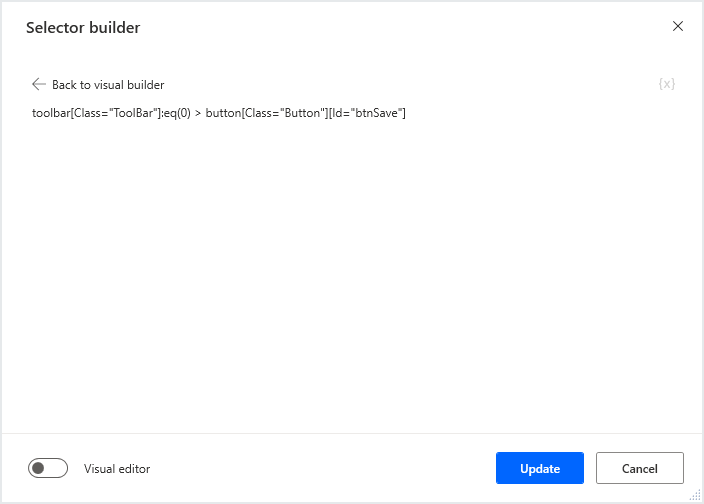
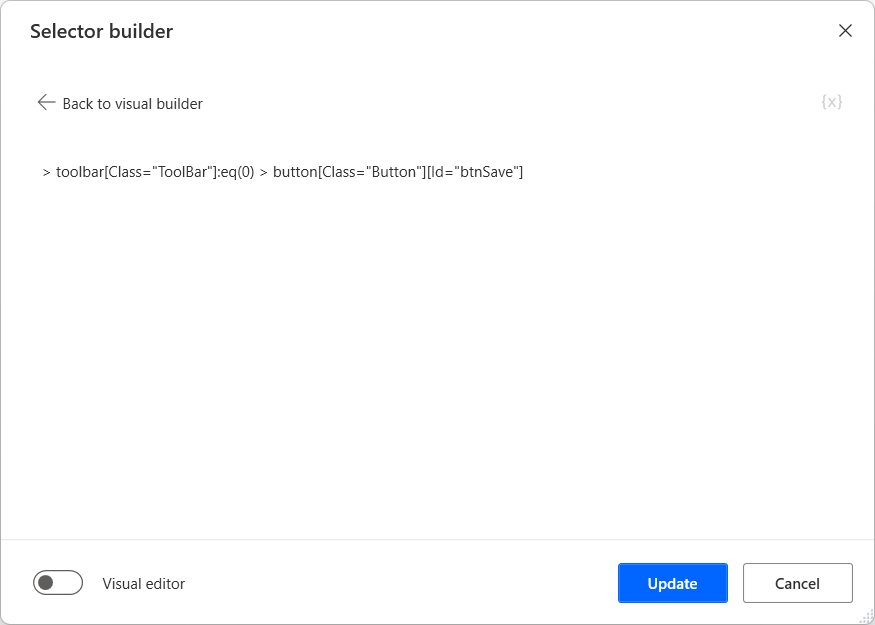
Updated screenshots for UI elements

diff --git a/articles/desktop-flows/ui-elements.md b/articles/desktop-flows/ui-elements.md
@@ -27,13 +27,15 @@ Each one of these action groups accepts a different category of UI elements. UI 
 > [!NOTE]
 > UI automation actions can use only UI elements for desktop applications, while the browser automation action can use only UI elements for webpages. Therefore, incompatible UI elements aren't available for selection. 
 
-![The Press button in window action.](./media/ui-elements/ui-element-input.png)
+![Screenshot of the available UI elements in the Press button in window action.](media/ui-elements/ui-element-input.png)
 
 To add a UI element to your flow, select to add a new UI element, highlight the respective element, and press **Ctrl + Left click**. When the selection is finished, select **Done**. 
 
-![Capturing an UI element.](./media/ui-elements/capturing-ui-elements.png)
+![Screenshot of a highlighted element.](./media/ui-elements/capturing-ui-elements.png)
 
 Any captured UI elements will be added to the UI elements pane. To access the UI elements pane, select the UI elements tab on the right-hand side of the flow designer.
+
+![Screenshot of the UI elements tab.](./media/ui-elements/ui-elements-tab.png)
 
 Elements can be sorted alphabetically through the **Sort** option of the  UI elements tab. To remove all the UI elements that aren't used in any action, select the dots icon next to the **Sort** option and then **Remove unused UI elements**.
 
@@ -41,15 +43,17 @@ To rename or delete a UI element, right-click on the respective item and select 
 
 To find where a specific UI element is being used in the flow, right-click on it and select **Find usages**. The results will display all the actions that use this UI element. Double-click on a result to highlight the action on the workspace.
 
-![The UI elements pane.](./media/ui-elements/access-ui-elements-pane.png)
+![Screenshot of the UI elements pane.](./media/ui-elements/ui-elements-pane.png)
 
 ## Element Types
 
 UI automation and browser automation actions accept two different kinds of UI elements. UI automation actions accept only UI elements captured from desktop applications, while browser automation actions accept only UI elements captured from web pages.
 
-To distinguish a UI element for a desktop application from a UI element for a web page, check its root element. UI elements for desktop applications usually have the desktop as their root element, while the UI elements for web pages have a webpage as their root element. 
+To distinguish a UI element for a desktop application from a UI element for a web page, check its root selector element. UI elements for desktop applications usually have the desktop as their root element, while the UI elements for web pages have a webpage as their root element. 
 
-## UI elements for web pages
+![Screenshot of a selector of a UI element for destop applications.](./media/ui-elements/ui-element-desktop-selector.png)
+
+### UI elements for web pages
 
 To capture a UI element from a webpage, you need to install the appropriate browser extension. You can find more information about the supported browsers and the required extension in [Use browsers and manage extensions](using-browsers.md).
 
@@ -59,11 +63,11 @@ When the browser extension fails to communicate with Power Automate for desktop,
 
 To manage a UI element’s selectors, right-click on the element and select **Edit selector**. This brings up the Selector builder, where the selector can be edited with a visual editor.
 
-![The visual selector builder.](./media/ui-elements/visual-selector-editor.png)
+![Screenshot of the visual selector builder.](./media/ui-elements/visual-selector-editor.png)
 
 To manually enter the selector’s value, toggle off Visual editor, and the text value of the selector will become editable:
 
-![The manual selector builder.](./media/ui-elements/manual-selector-editor.png)
+![Screenshot of the manual selector builder.](./media/ui-elements/manual-selector-editor.png)
 
 [!INCLUDE[footer-include](../includes/footer-banner.md)]
 
